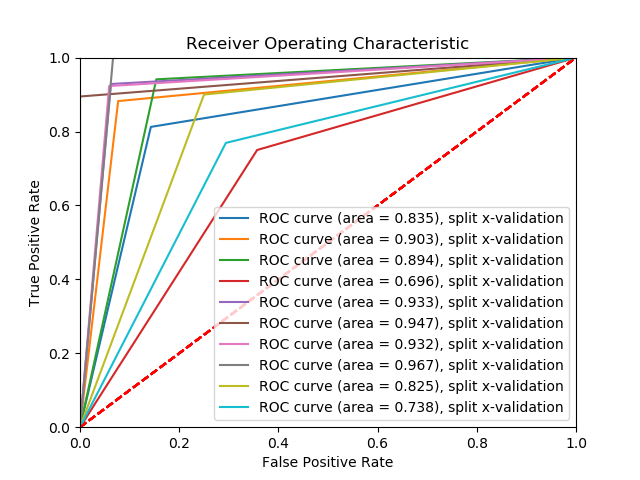
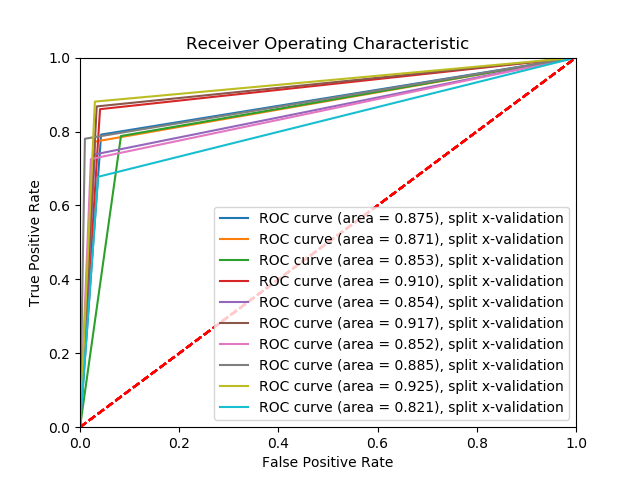
Fix the homogeneous results

diff --git a/5_3_Gaussian_process.py b/5_3_Gaussian_process.py
@@ -8,6 +8,8 @@ from os.path import isfile, join
 from sklearn import tree
 from sklearn import metrics
 from matplotlib import pyplot
+from sklearn.gaussian_process import GaussianProcessClassifier
+from sklearn.gaussian_process.kernels import RBF
 from sklearn.feature_extraction import DictVectorizer
 from sklearn.feature_extraction import FeatureHasher
 from sklearn.ensemble import RandomForestClassifier
@@ -21,13 +23,19 @@ dictionnary = []
 classifier = tree.DecisionTreeClassifier("entropy")
 randforest = RandomForestClassifier(n_jobs=2)
 vectorizer = DictVectorizer(sparse = False)
-hasher = FeatureHasher(n_features=2000)
+hasher = FeatureHasher(n_features=4000)
+kernel = 1.0 * RBF(1.0)
+gpc = GaussianProcessClassifier(kernel=kernel, random_state=0)
+
+d_training = [{'packed':1, 'contains_encrypted':0}, {'packed':0, 'contains_encrypted':0},
+{'packed':0, 'contains_encrypted':0}, {'packed':1, 'contains_encrypted':1}]
+v_label = [1, 1, 0, 0]
 
 tmp_array = []
 tmp_obj = {}
 nb = 0
 cur_directory = 1
-limit = -1
+limit = 150
 current = 0
 features_name = []
 
@@ -53,11 +61,11 @@ for tmp_dir in directories:
 		nb_attr_all += len(tmp_obj)
 		# Clear tmp_obj
 		tmp_obj = {}
-		# Append the expected output relative to the folder ("malware" or "benign")
+		# Append the expected output relative to the folder ("malware" or "bnign")
 		expected_output.append(tmp_output)
 		current += 1
 		# if the number of files reach the limit
-		if (limit > 0 and current == cur_directory*limit):
+		if (current == cur_directory*limit):
 			break
 	tmp_output = 1;
 	cur_directory += 1
@@ -89,11 +97,40 @@ X = training_data
 y = training_labels
 #print("training_data : ", training_data)
 #print("training_labels : ", training_labels)
-randforest.fit(X, y)
+gpc.fit(X, y)
+#randforest.fit(X, y)
 
 # Save the classifier with pickle
 with open('classifier_strings','wb') as fp:
     pickle.dump(classifier,fp)
+
+# Initialisation for the ROC curve
+tp = 0
+fp = 0
+tn = 0
+fn = 0
+fpr = []
+tpr = []
+size = len(testing_labels)
+
+# Compute fpr and tpr of the classifier
+result = gpc.predict(testing_data)
+fpr, tpr, thresholds = metrics.roc_curve(testing_labels, result)
+auc = metrics.roc_auc_score(testing_labels, result)
+#print("fpr : ", fpr)
+#print("tpr : ", tpr)
+
+# Show the ROC curve of the classifier
+pyplot.title('Receiver Operating Characteristic')
+pyplot.plot(fpr, tpr, label='ROC curve (area = %0.3f)' % auc)
+pyplot.legend(loc = 'lower right')
+pyplot.plot([0, 1], [0, 1],'r--')
+pyplot.xlim([0, 1])
+pyplot.ylim([0, 1])
+pyplot.ylabel('True Positive Rate')
+pyplot.xlabel('False Positive Rate')
+#pyplot.show()
+pyplot.savefig('gaussian_process.png')
 
 # Initialisation for the challenge
 tmp_obj = {}
@@ -121,6 +158,8 @@ tmp_hash = numpy.asarray(tmp_hash)
 # Print the results
 print("| filename | malware probability | benign probabilty |")
 print("|--------|--------|--------|")
-for table, file in zip(randforest.predict_proba(tmp_hash), test_files):
+for table, file in zip(gpc.predict_proba(tmp_hash), test_files):
 	minus_p, p = table
 	print("| ", file, " | ", p, " | ", minus_p, " |")
+
+print("prediction results : ", gpc.predict(tmp_hash))

diff --git a/4_1_multi_roc.py b/4_1_multi_roc.py
@@ -27,8 +27,9 @@ tmp_array = []
 tmp_obj = {}
 nb = 0
 cur_directory = 1
-limit = 150
+limit = -1
 current = 0
+prev_read = 0;
 features_name = []
 
 def train_classifier(hash_list, cut, expected_output, save):
@@ -44,8 +45,8 @@ def train_classifier(hash_list, cut, expected_output, save):
 	randforest.fit(X, y)
 
 	# Save the classifier with pickle
-	#with open('classifier_strings','wb') as fp:
-	#    pickle.dump(classifier,fp)
+	with open('classifier_strings','wb') as fp:
+	    pickle.dump(classifier,fp)
 
 	# Initialisation for the ROC curve
 	fpr = []
@@ -73,7 +74,7 @@ def train_classifier(hash_list, cut, expected_output, save):
 
 # Extract strings in files
 for tmp_dir in directories:
-	print("directory : ", tmp_dir)
+	#print("directory : ", tmp_dir)
 	onlyfiles = [f for f in listdir(path_to_data + tmp_dir) if isfile(join(path_to_data + tmp_dir, f))]
 	# For each file in the current folder
 	for file in onlyfiles:
@@ -97,10 +98,12 @@ for tmp_dir in directories:
 		expected_output.append(tmp_output)
 		current += 1
 		# if the number of files reach the limit
-		if (current == cur_directory*limit):
+		if (limit > 0 and current == cur_directory*limit):
 			break
 	tmp_output = 1;
 	cur_directory += 1
+	print(current - prev_read, " files read in directory ", tmp_dir)
+	prev_read = current;
 #print("dictionnary : ", len(dictionnary))
 
 # Hash the dictionnary

diff --git a/4_2_cross_validation.py b/4_2_cross_validation.py
@@ -28,9 +28,10 @@ tmp_array = []
 tmp_obj = {}
 nb = 0
 cur_directory = 1
-limit = 150
+limit = -1
 current = 0
 features_name = []
+prev_read = 0
 
 def train_classifier(training_data, training_labels, testing_data, testing_labels, save):
 	# Train the classifier
@@ -67,7 +68,7 @@ def train_classifier(training_data, training_labels, testing_data, testing_label
 
 # Extract strings in files
 for tmp_dir in directories:
-	print("directory : ", tmp_dir)
+	#print("directory : ", tmp_dir)
 	onlyfiles = [f for f in listdir(path_to_data + tmp_dir) if isfile(join(path_to_data + tmp_dir, f))]
 	# For each file in the current folder
 	for file in onlyfiles:
@@ -91,10 +92,12 @@ for tmp_dir in directories:
 		expected_output.append(tmp_output)
 		current += 1
 		# if the number of files reach the limit
-		if (current == cur_directory*limit):
+		if (limit > 0 and current == cur_directory*limit):
 			break
 	tmp_output = 1;
 	cur_directory += 1
+	print(current - prev_read, " files read in directory ", tmp_dir)
+	prev_read = current;
 #print("dictionnary : ", len(dictionnary))
 
 # Hash the dictionnary

diff --git a/4_random_forest_classifier.py b/4_random_forest_classifier.py
@@ -31,7 +31,7 @@ tmp_array = []
 tmp_obj = {}
 nb = 0
 cur_directory = 1
-limit = 150
+limit = -1
 current = 0
 features_name = []
 
@@ -143,9 +143,11 @@ for file in test_files:
 			tmp_obj[elem] = 1
 	#print("Hashing of the data of ", file)
 	tf_do_i_need_this.append(tmp_obj)
-	tmp_hash = hasher.transform(tf_do_i_need_this)
-	tmp_hash = tmp_hash.todense()
-	tmp_hash = numpy.asarray(tmp_hash)
+	# Clear tmp_obj
+	tmp_obj = {}
+tmp_hash = hasher.transform(tf_do_i_need_this)
+tmp_hash = tmp_hash.todense()
+tmp_hash = numpy.asarray(tmp_hash)
 
 # Print the results
-print("prdiction results : ", randforest.predict(tmp_hash))
+print("prediction results : ", randforest.predict(tmp_hash))
